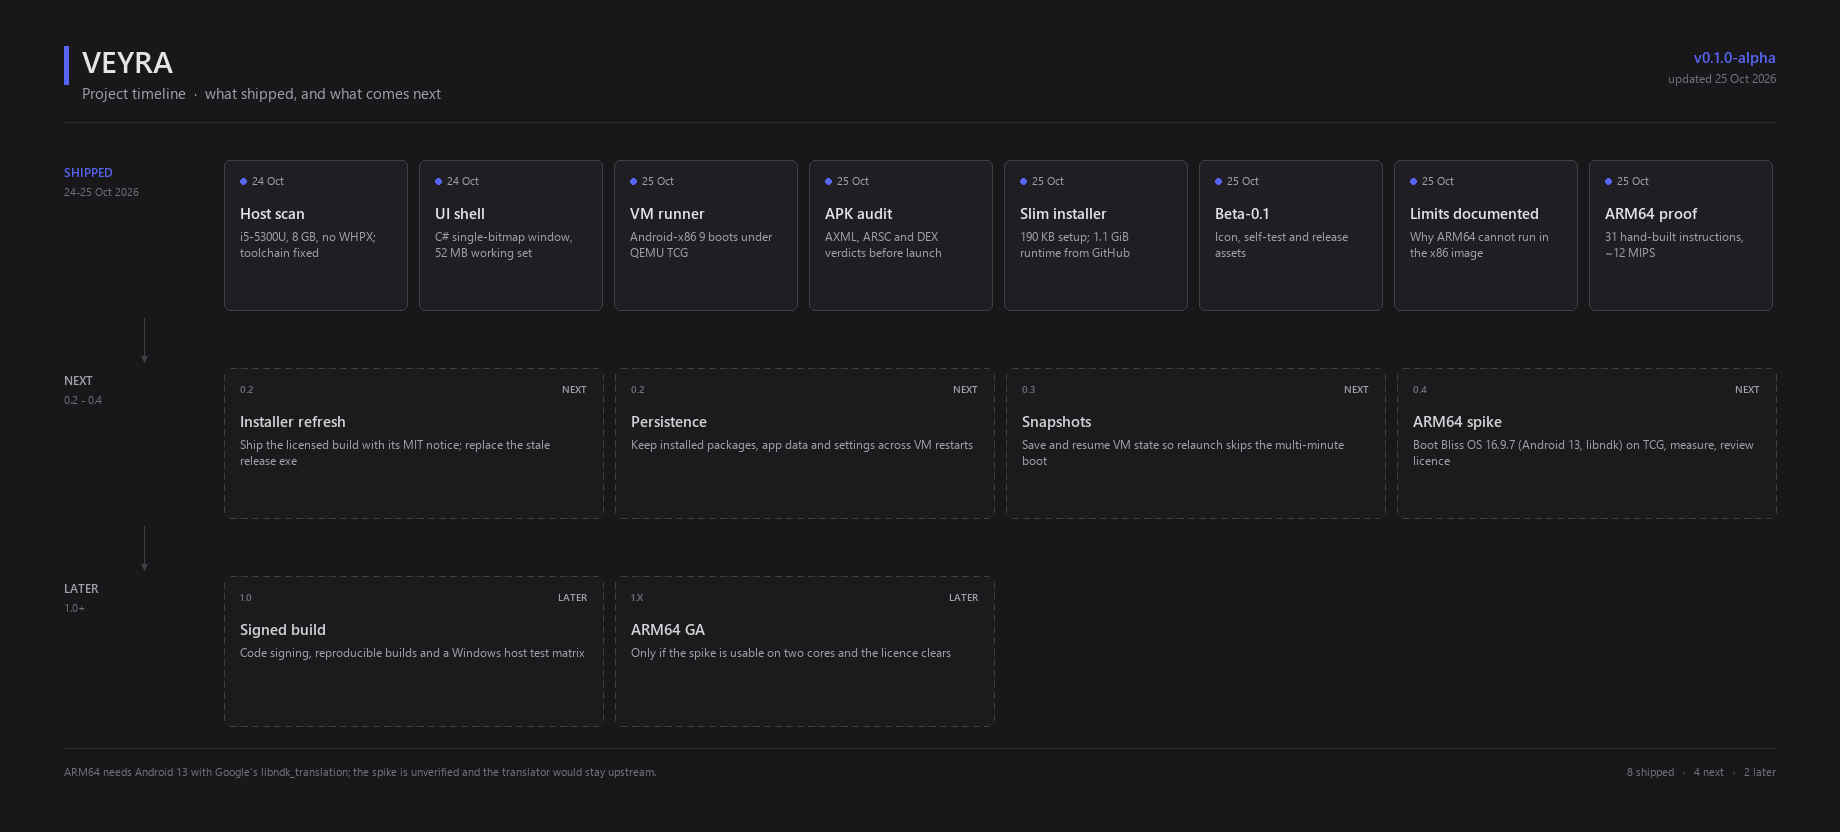
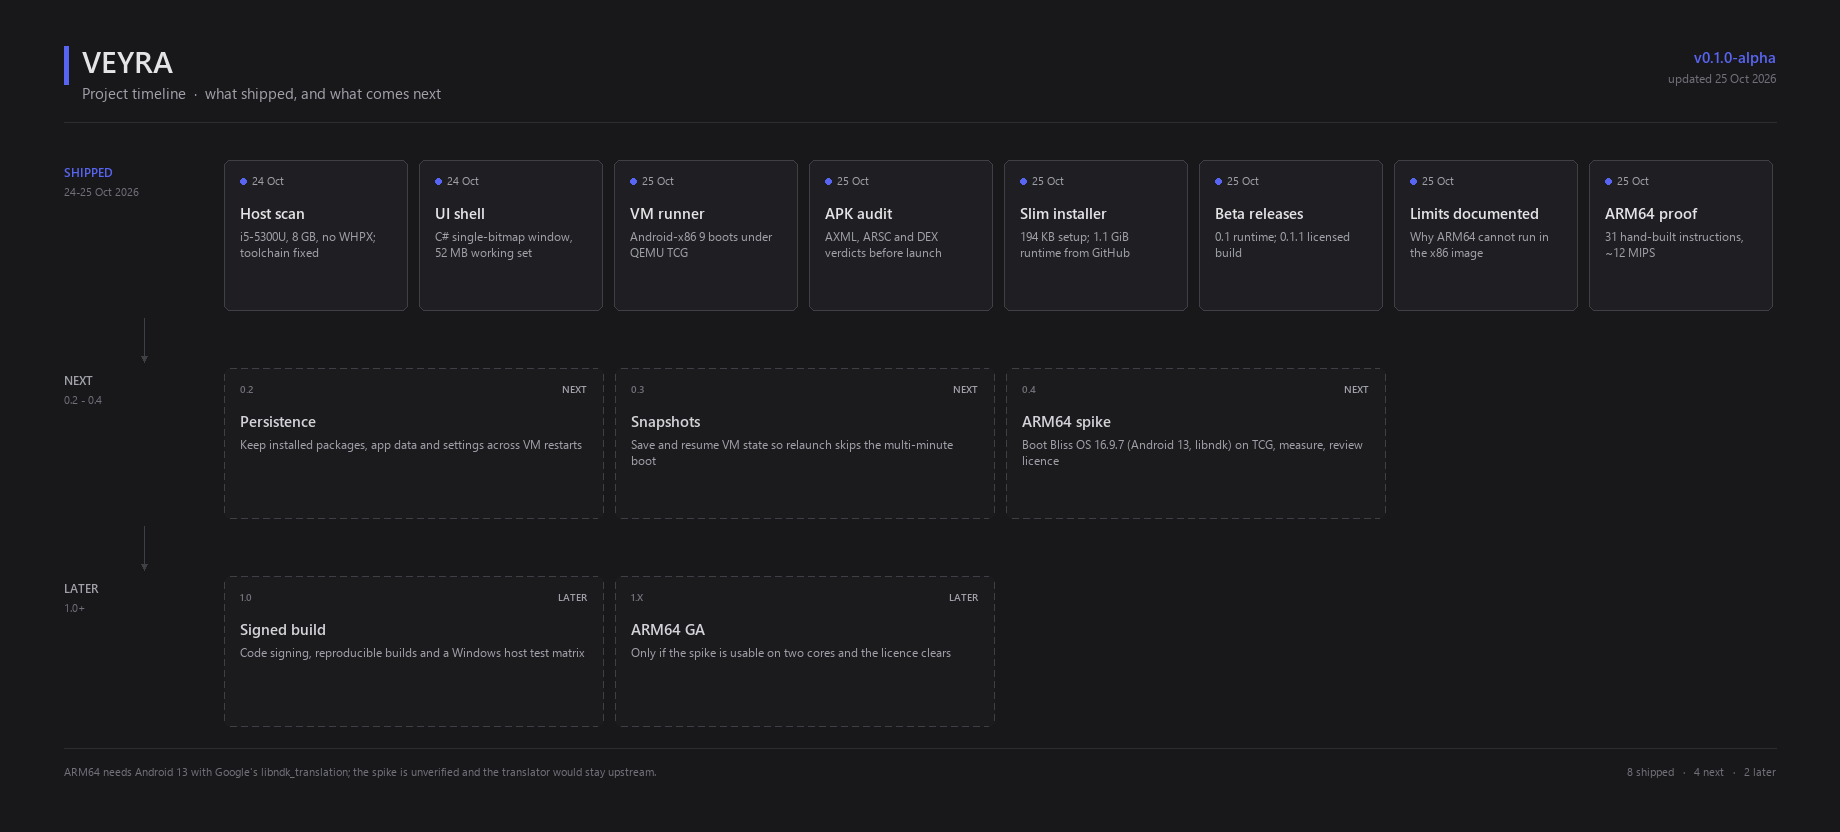
Publish Beta-0.1.1 and reflect it in the roadmap
The licensed installer with the current icon build now lives in its own
patch release, so the docs should point there rather than asking for the
Beta-0.1 assets to be replaced. Record the release in the timeline, mark
the packaging checks done, and correct the installer size to 194 KB.

diff --git a/tools/roadmap.py b/tools/roadmap.py
@@ -40,14 +40,13 @@ SHIPPED = [
     ("24 Oct", "UI shell", "C# single-bitmap window, 52 MB working set"),
     ("25 Oct", "VM runner", "Android-x86 9 boots under QEMU TCG"),
     ("25 Oct", "APK audit", "AXML, ARSC and DEX verdicts before launch"),
-    ("25 Oct", "Slim installer", "190 KB setup; 1.1 GiB runtime from GitHub"),
-    ("25 Oct", "Beta-0.1", "Icon, self-test and release assets"),
+    ("25 Oct", "Slim installer", "194 KB setup; 1.1 GiB runtime from GitHub"),
+    ("25 Oct", "Beta releases", "0.1 runtime; 0.1.1 licensed build"),
     ("25 Oct", "Limits documented", "Why ARM64 cannot run in the x86 image"),
     ("25 Oct", "ARM64 proof", "31 hand-built instructions, ~12 MIPS"),
 ]
 
 NEXT = [
-    ("0.2", "Installer refresh", "Ship the licensed build with its MIT notice; replace the stale release exe"),
     ("0.2", "Persistence", "Keep installed packages, app data and settings across VM restarts"),
     ("0.3", "Snapshots", "Save and resume VM state so relaunch skips the multi-minute boot"),
     ("0.4", "ARM64 spike", "Boot Bliss OS 16.9.7 (Android 13, libndk) on TCG, measure, review licence"),

diff --git a/README.md b/README.md
@@ -8,9 +8,10 @@ webview, and no AI at runtime. A phone over ADB remains a supported alternative.
 
 `Veyra.exe` — the UI and package auditor, .NET Framework 4.8, native GDI painting.
 Current interface: **v0.1.0-alpha**.
-`VeyraSetup.exe` — a 190 KB installer. It lays down Veyra and adb, then downloads
+`VeyraSetup.exe` — a 194 KB installer. It lays down Veyra and adb, then downloads
 the Android image and QEMU (≈ 1.1 GB) from the GitHub release and verifies the
-archive against the published SHA-256 before unpacking. No admin rights required.
+archive against the published SHA-256 before unpacking. No admin rights required. Current build:
+[`Beta-0.1.1`](https://github.com/Artleboss2/Veyra/releases/tag/Beta-0.1.1).
 
 Designed and tested on a **Lenovo ThinkPad X250** (i5-5300U, 8 GB RAM, HD 5500).
 
@@ -62,7 +63,7 @@ next to the executable, and the installer writes to
 `PATH`, and needs no administrator rights. The Android image is not embedded in
 `VeyraSetup.exe`; the installer downloads `veyra-runtime.zip` (about 1.1 GiB)
 from the release named in `runtime.json`, verifies its SHA-256 and unpacks it.
-That is what keeps the installer at 190 KB and lets the runtime be updated
+That is what keeps the installer at 194 KB and lets the runtime be updated
 without shipping a new setup program.
 
 ## Requirements
@@ -104,7 +105,7 @@ Because adb ships inside the runtime, the app never needs a copy from anywhere
 else: `Settings → ADB path` shows `bundled · runtime\adb\adb.exe`.
 
 The installer carries only the four application files (Veyra, the uninstaller, the
-README and the MIT licence); everything else is fetched at install time. That is why the installer is 190 KB instead of 1.1 GB, and why a
+README and the MIT licence); everything else is fetched at install time. That is why the installer is 194 KB instead of 1.1 GB, and why a
 release can update Veyra without re-uploading the image.
 
 It is testable without writing outside the project:
@@ -281,12 +282,12 @@ cannot provide).
 
 ## To do
 
-### 0.2 - close out Beta-0.1
+### 0.2 - close out the releases
 
-- [ ] Re-upload `VeyraSetup.exe` and `Veyra.exe` to the `Beta-0.1` release, so the
-      published installer carries the MIT notice and the current icon build.
-- [ ] Verify that installer on a clean Windows profile, not just this machine.
-- [ ] Replace the stale standalone `Veyra.exe` asset (139,776 B, pre-icon).
+- [x] Publish `Beta-0.1.1` with the licensed installer and current binaries.
+- [x] Verify the downloaded installer: payload, SHA-256 and runtime manifest.
+- [ ] Verify the installer on a clean Windows profile, not just this machine.
+- [ ] Retire the stale standalone `Veyra.exe` on `Beta-0.1` (139,776 B, pre-icon).
 
 ### 0.2 - persistence
 
@@ -321,7 +322,7 @@ cannot provide).
 | Animated backdrop | ~6 ms per 90 ms tick, only while the window is focused |
 | Idle CPU | 0.03 % of one core with the window unfocused; 2.1-2.7 % if every second forces a rebuild |
 | Self-test working set | 15 MB, with no window created |
-| Installer | 190 KB (4 embedded files); 245 runtime entries downloaded on install |
+| Installer | 194 KB (4 embedded files); 245 runtime entries downloaded on install |
 
 The 500 MB ceiling is enforced in code: the memory bar turns amber at 400 MB and
 the console records a breach, which the self-test treats as a failure.
